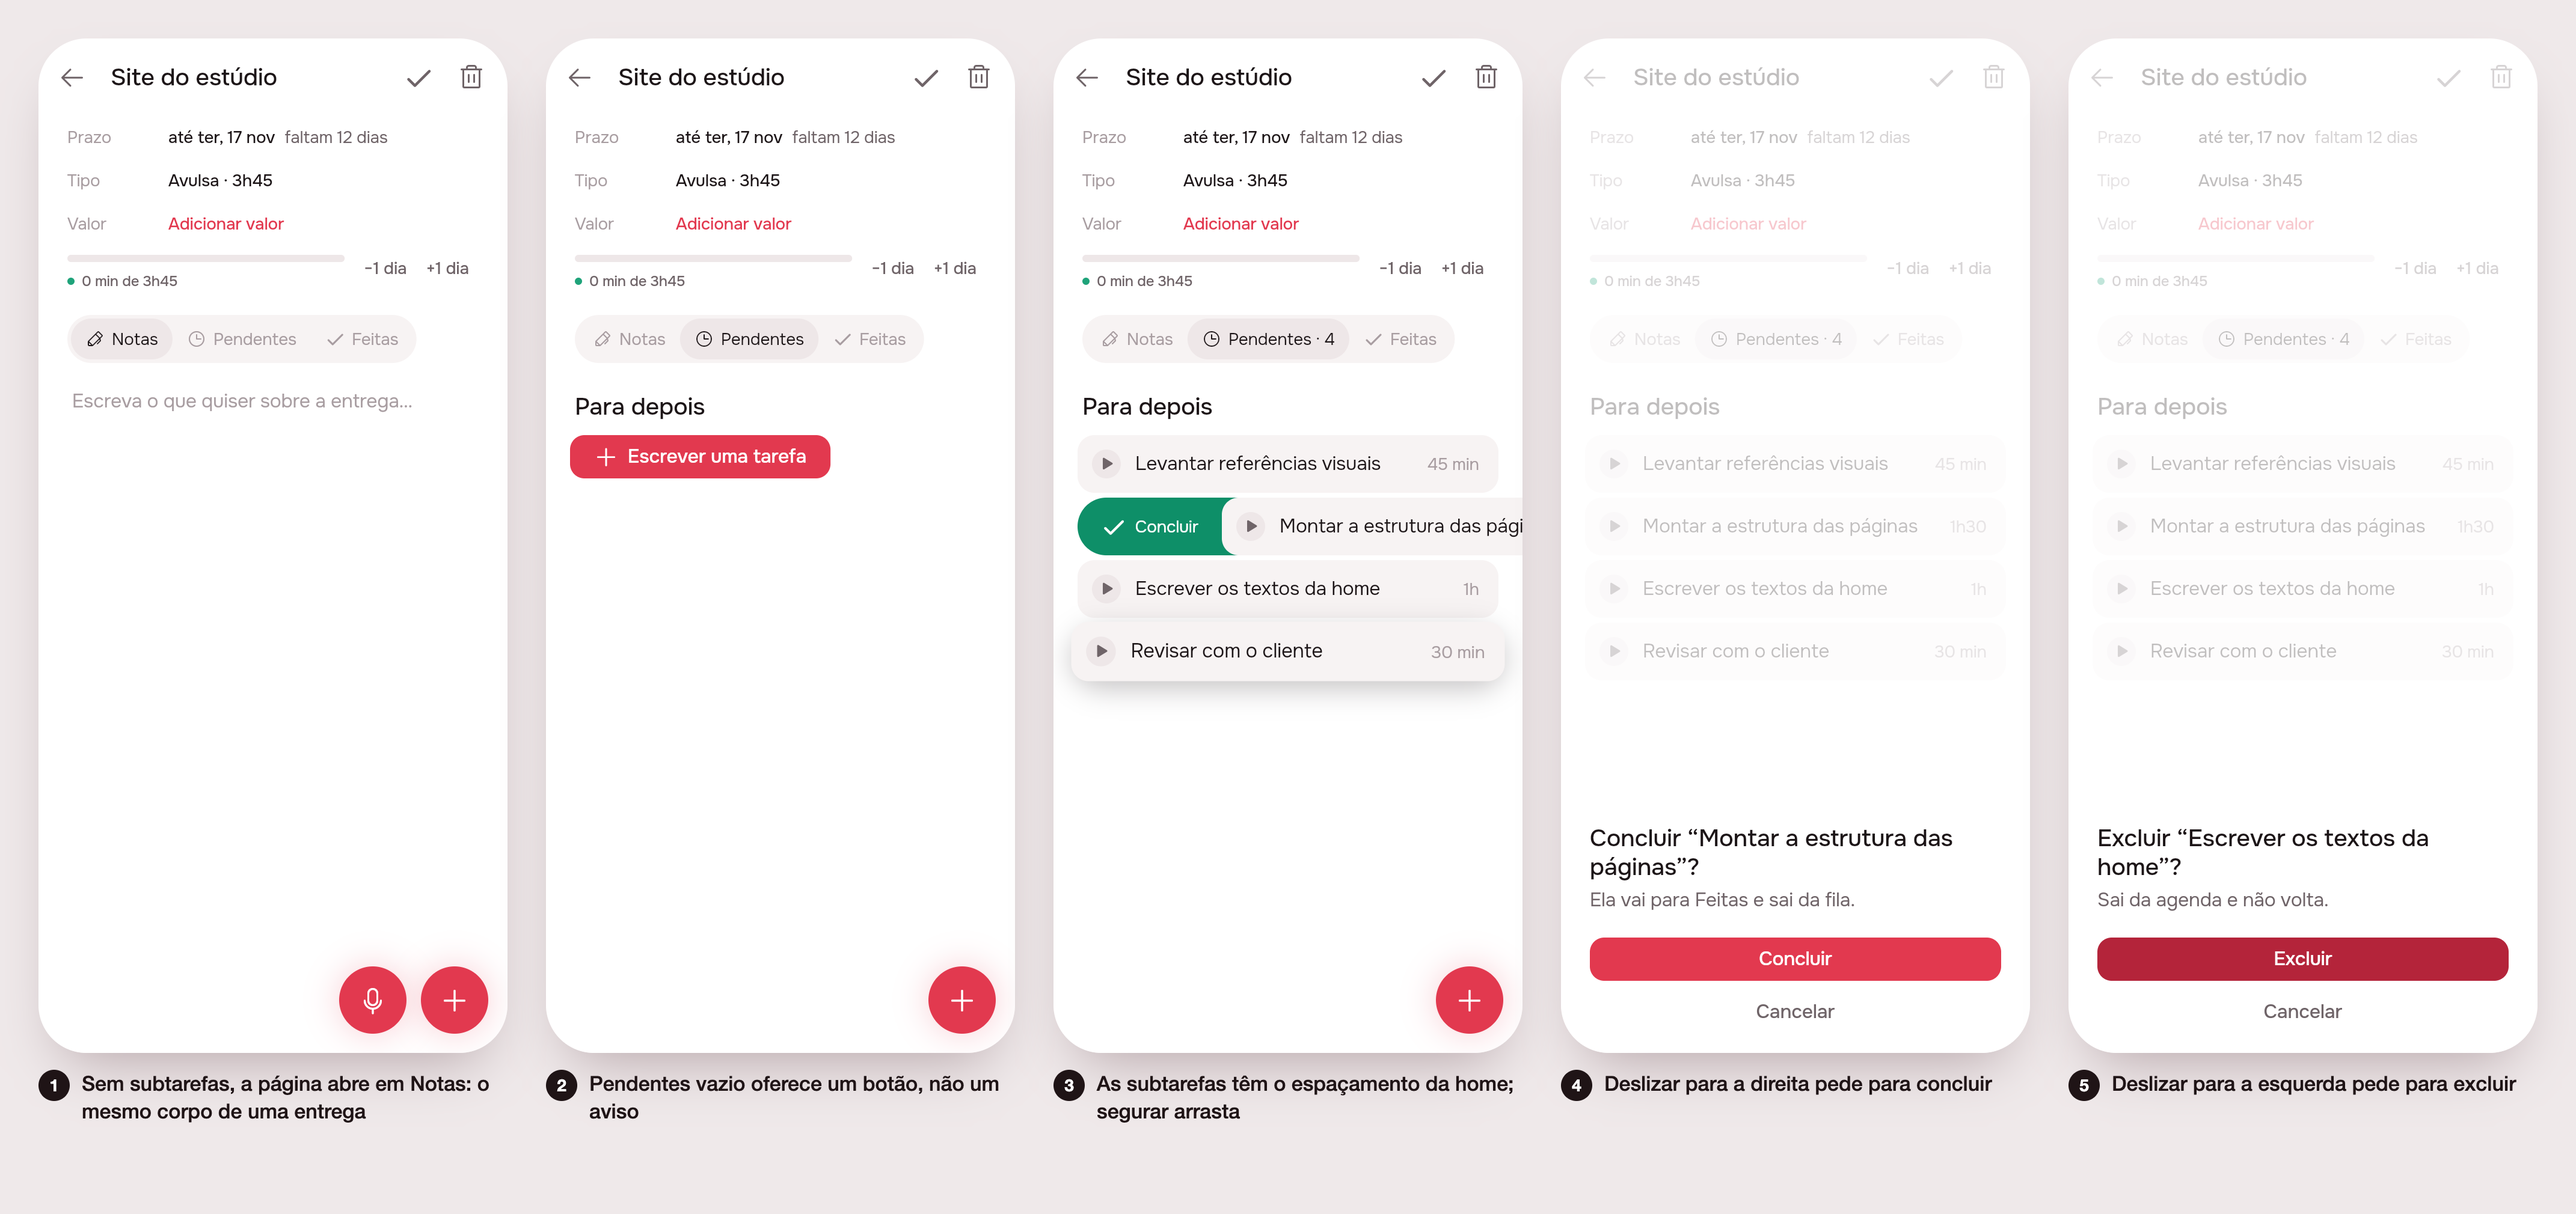
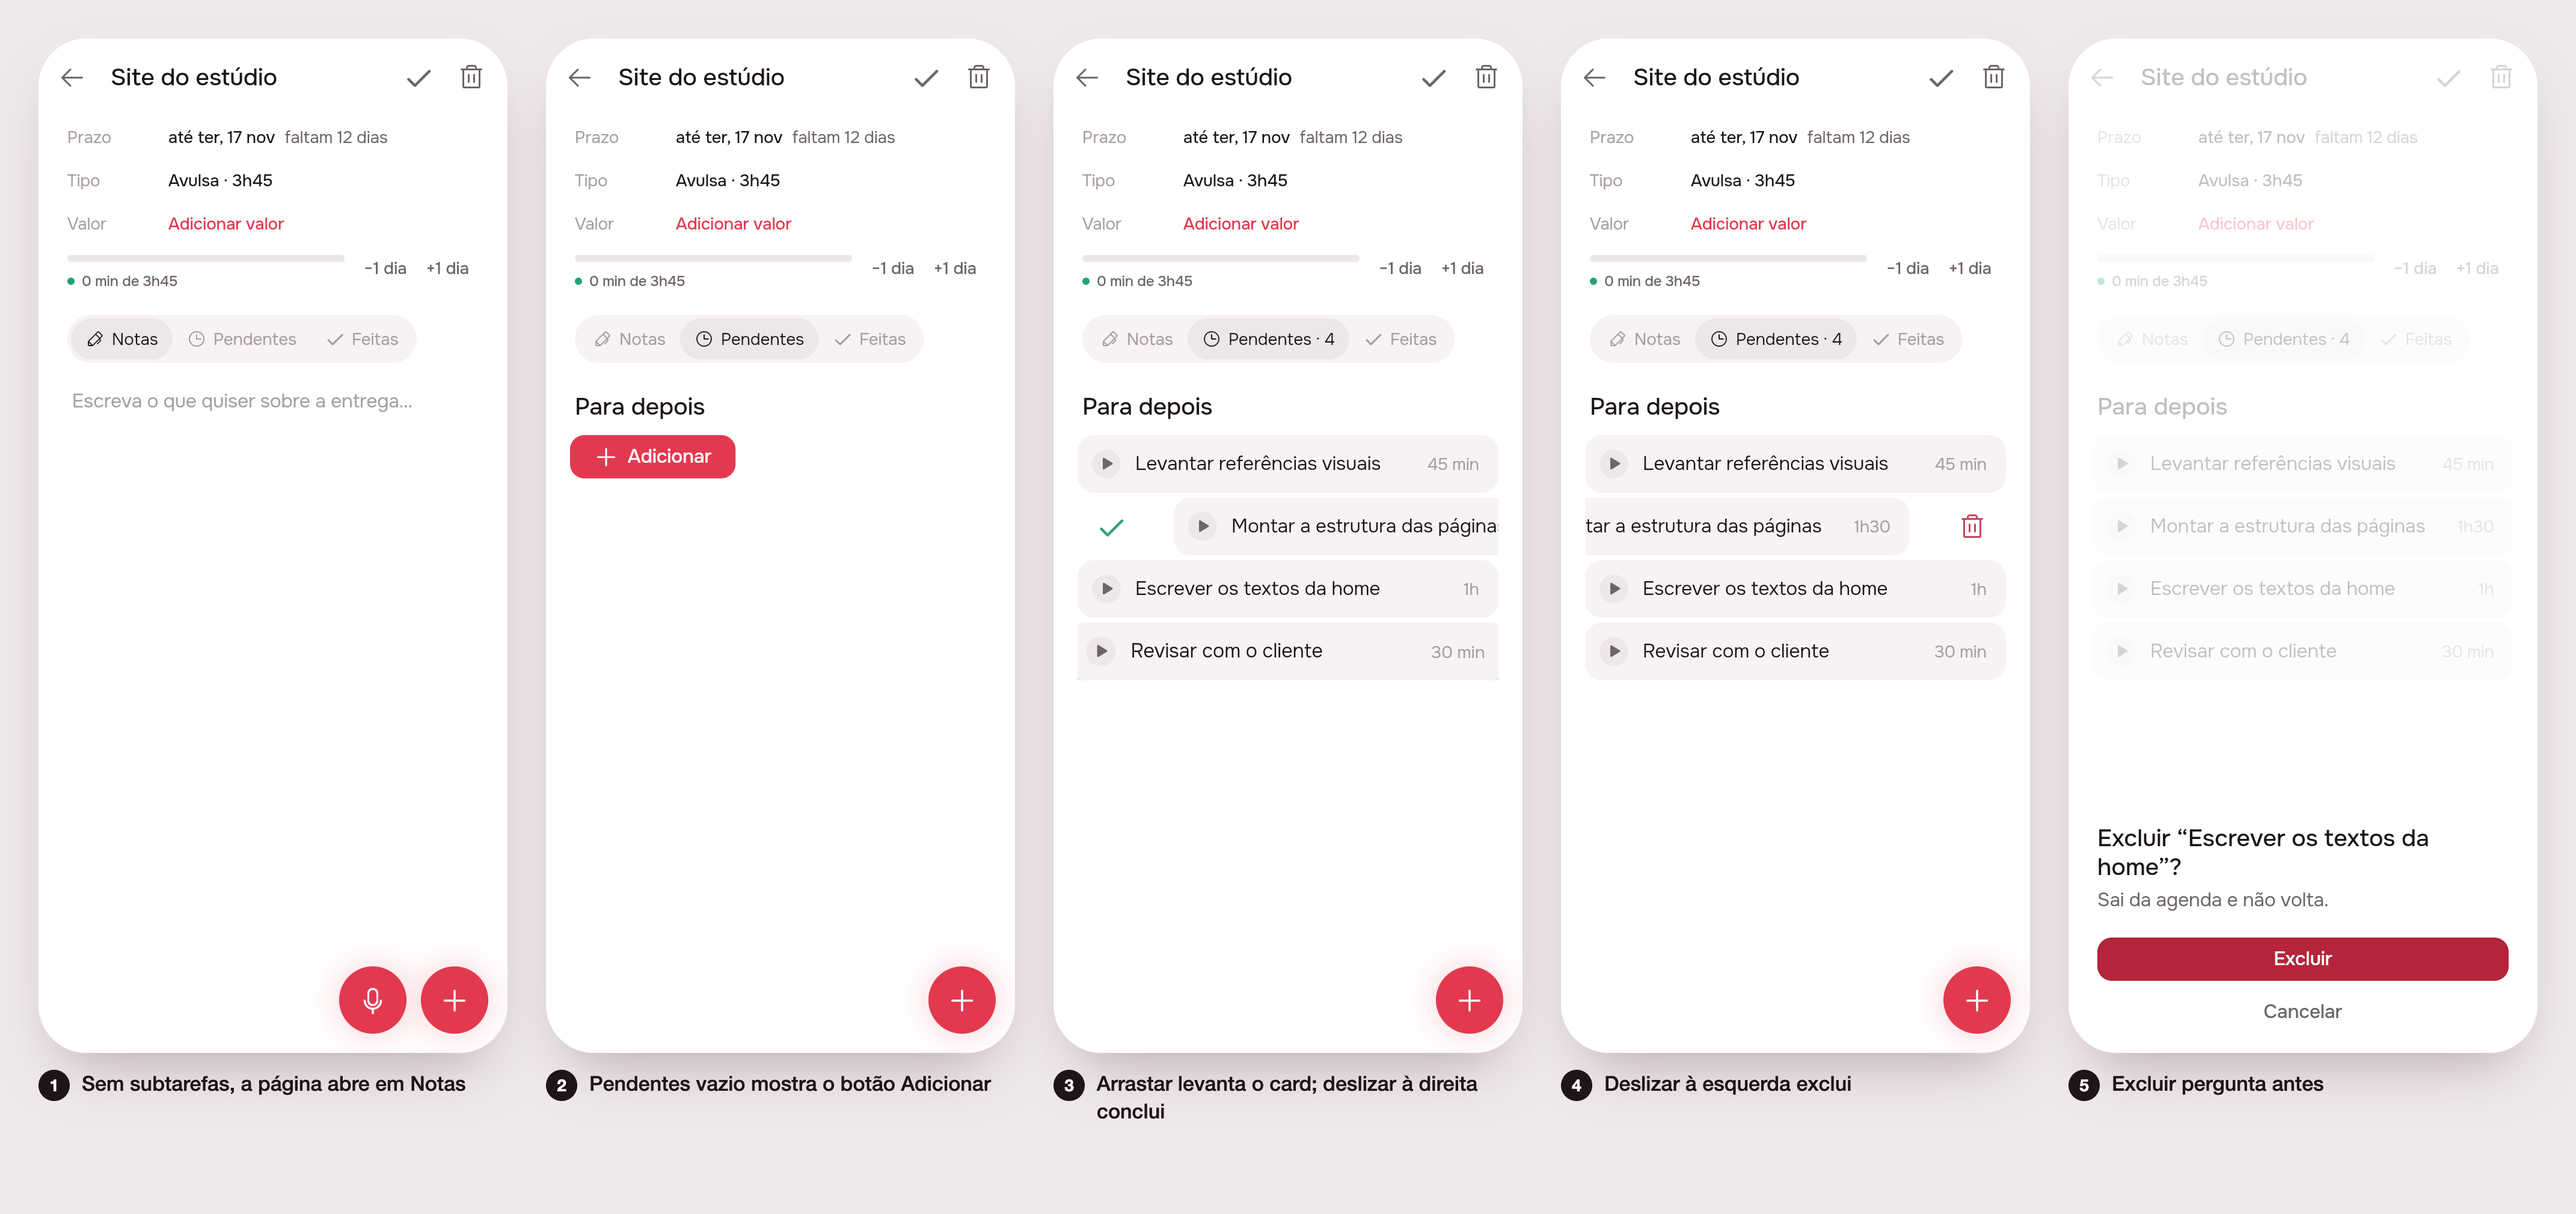
mockup(#94): revise · Visão da tarefa: notas, subtarefas e diálogos

diff --git a/app/packages/artifacts/lib/src/view/subtask_row.dart b/app/packages/artifacts/lib/src/view/subtask_row.dart
@@ -1,12 +1,10 @@
 import 'package:app_ui/app_ui.dart';
-import 'package:l10n/l10n.dart';
 
 /// {@template subtask_row}
-/// A subtask's card with its swipes: right ticks it off, left deletes it.
+/// A subtask's card with the calendar's swipes: right ticks it off, left deletes it (asking first).
 ///
-/// Both only reveal their button past the threshold and ask before they
-/// do anything ([onDone], [onDelete] return whether the answer was yes);
-/// the card always springs back, because the list redraws from the server.
+/// Done needs no answer, as on the calendar; delete asks ([onDelete]).
+/// The card always springs back, because the list redraws from the server.
 /// [offset] and [lifted] seed a swipe or a drag already under way, for the
 /// previews.
 /// {@endtemplate}
@@ -44,7 +42,6 @@ class _SubtaskRowState extends State<SubtaskRow> {
 
   @override
   Widget build(BuildContext context) {
-    final l10n = context.l10n;
     final done = _dx > 0;
     final shown = _dx.abs().clamp(0, 160).toDouble();
 
@@ -52,62 +49,55 @@ class _SubtaskRowState extends State<SubtaskRow> {
       behavior: HitTestBehavior.translucent,
       onHorizontalDragUpdate: (d) => setState(() => _dx += d.delta.dx),
       onHorizontalDragEnd: (_) => _release(),
-      child: Stack(
-        children: [
-          if (_dx != 0)
-            Positioned.fill(
-              child: Container(
-                alignment: done ? Alignment.centerLeft : Alignment.centerRight,
-                padding: const EdgeInsets.symmetric(horizontal: AppSpacing.s5),
-                decoration: BoxDecoration(
-                  color: done ? AppColors.success : AppColors.dangerInk,
-                  borderRadius: BorderRadius.circular(AppSpacing.cardRadius),
-                ),
-                child: Opacity(
-                  opacity: (shown / _threshold).clamp(0, 1).toDouble(),
-                  child: Row(
-                    mainAxisSize: MainAxisSize.min,
-                    children: [
-                      AppIcon(
+      child: ClipRect(
+        child: Stack(
+          children: [
+            // As on the calendar: only the icon, in the card's own corner, no
+            // fill and no label.
+            if (_dx != 0)
+              Positioned.fill(
+                child: Align(
+                  alignment: done
+                      ? Alignment.centerLeft
+                      : Alignment.centerRight,
+                  child: Padding(
+                    padding: const EdgeInsets.symmetric(
+                      horizontal: AppSpacing.s4,
+                    ),
+                    child: Opacity(
+                      opacity: (shown / _threshold).clamp(0, 1).toDouble(),
+                      child: AppIcon(
                         iconData: done ? AppIcons.check : AppIcons.trash,
-                        color: AppColors.bg,
-                        size: 20,
+                        color: done ? AppColors.success : AppColors.dangerInk,
                       ),
-                      const SizedBox(width: AppSpacing.s2),
-                      Text(
-                        done ? l10n.subtaskSwipeDone : l10n.subtaskSwipeDelete,
-                        style: AppTypography.label.copyWith(
-                          color: AppColors.bg,
-                        ),
-                      ),
-                    ],
+                    ),
                   ),
                 ),
               ),
-            ),
-          Transform.translate(
-            offset: Offset(_dx, 0),
-            child: AnimatedScale(
-              scale: widget.lifted ? 1.03 : 1,
-              duration: const Duration(milliseconds: 120),
-              child: DecoratedBox(
-                decoration: BoxDecoration(
-                  borderRadius: BorderRadius.circular(AppSpacing.cardRadius),
-                  boxShadow: widget.lifted
-                      ? [
-                          const BoxShadow(
-                            color: AppColors.shadow,
-                            blurRadius: 18,
-                            offset: Offset(0, 6),
-                          ),
-                        ]
-                      : null,
+            Transform.translate(
+              offset: Offset(_dx, 0),
+              child: AnimatedScale(
+                scale: widget.lifted ? 1.03 : 1,
+                duration: const Duration(milliseconds: 120),
+                child: DecoratedBox(
+                  decoration: BoxDecoration(
+                    borderRadius: BorderRadius.circular(AppSpacing.cardRadius),
+                    boxShadow: widget.lifted
+                        ? [
+                            const BoxShadow(
+                              color: AppColors.shadow,
+                              blurRadius: 18,
+                              offset: Offset(0, 6),
+                            ),
+                          ]
+                        : null,
+                  ),
+                  child: widget.child,
                 ),
-                child: widget.child,
               ),
             ),
-          ),
-        ],
+          ],
+        ),
       ),
     );
   }

diff --git a/app/lib/task_view_preview.dart b/app/lib/task_view_preview.dart
@@ -11,7 +11,7 @@ import 'package:lunna/demo/data/demo_repositories.dart';
 import 'package:timeline/timeline.dart';
 
 /// Preview of the task page (#94): `?s=1` Notas empty, `2` Pendentes empty,
-/// `3` subtasks with a swipe and a drag, `4` the done dialog, `5` the
+/// `3` subtasks, a swipe right and a drag, `4` a swipe left, `5` the
 /// delete dialog.
 void main() => runApp(const _App());
 
@@ -73,13 +73,9 @@ class _SceneState extends State<_Scene> {
   @override
   void initState() {
     super.initState();
-    if (_scene >= 4) {
+    if (_scene == 5) {
       WidgetsBinding.instance.addPostFrameCallback((_) {
-        if (_scene == 4) {
-          confirmDone(context, 'Montar a estrutura das páginas');
-        } else {
-          confirmDelete(context, 'Escrever os textos da home');
-        }
+        confirmDelete(context, 'Escrever os textos da home');
       });
     }
   }
@@ -118,7 +114,11 @@ class _SceneState extends State<_Scene> {
         child: ArtifactPage(
           id: 'p',
           initialTab: _scene == 1 ? 0 : 1,
-          previewSwipe: _scene == 3 ? ('b', 120) : null,
+          previewSwipe: _scene == 3
+              ? ('b', 80)
+              : _scene == 4
+              ? ('b', -80)
+              : null,
           previewLifted: _scene == 3 ? 'd' : null,
         ),
       ),

diff --git a/app/packages/artifacts/lib/src/view/artifact_page.dart b/app/packages/artifacts/lib/src/view/artifact_page.dart
@@ -674,7 +674,7 @@ class _Tasks extends StatelessWidget {
             alignment: Alignment.centerLeft,
             child: AppButton.icon(
               icon: const AppIcon(iconData: AppIcons.plus, size: 20),
-              text: l10n.artifactPendingEmptyAction,
+              text: l10n.composeAdd,
               onPressed: () => ComposeLauncher.maybeOf(
                 context,
               )?.open(context, about: AgentSubject.artifact(artifact.id)),
@@ -689,10 +689,7 @@ class _Tasks extends StatelessWidget {
               offset: swipeId == task.id ? swipe : 0,
               lifted: liftedId == task.id,
               onDone: () async {
-                final bloc = context.read<TimelineBloc>();
-                if (await confirmDone(context, task.title)) {
-                  bloc.add(EventFinished(task.id));
-                }
+                context.read<TimelineBloc>().add(EventFinished(task.id));
               },
               onDelete: () async {
                 final bloc = context.read<TimelineBloc>();

diff --git a/app/packages/l10n/lib/src/gen/app_localizations.dart b/app/packages/l10n/lib/src/gen/app_localizations.dart
@@ -335,24 +335,6 @@ abstract class AppLocalizations {
   /// **'Concluir'**
   String get confirmDoneAction;
 
-  /// No description provided for @artifactPendingEmptyAction.
-  ///
-  /// In pt, this message translates to:
-  /// **'Escrever uma tarefa'**
-  String get artifactPendingEmptyAction;
-
-  /// No description provided for @subtaskSwipeDone.
-  ///
-  /// In pt, this message translates to:
-  /// **'Concluir'**
-  String get subtaskSwipeDone;
-
-  /// No description provided for @subtaskSwipeDelete.
-  ///
-  /// In pt, this message translates to:
-  /// **'Excluir'**
-  String get subtaskSwipeDelete;
-
   /// No description provided for @confirmShortenTitle.
   ///
   /// In pt, this message translates to:

diff --git a/app/packages/l10n/lib/src/gen/app_localizations_pt.dart b/app/packages/l10n/lib/src/gen/app_localizations_pt.dart
@@ -160,15 +160,6 @@ class AppLocalizationsPt extends AppLocalizations {
   String get confirmDoneAction => 'Concluir';
 
   @override
-  String get artifactPendingEmptyAction => 'Escrever uma tarefa';
-
-  @override
-  String get subtaskSwipeDone => 'Concluir';
-
-  @override
-  String get subtaskSwipeDelete => 'Excluir';
-
-  @override
   String get confirmShortenTitle => 'Não cabe inteiro aqui';
 
   @override

diff --git a/product/delivery/2026-11-05-task-view/README.md b/product/delivery/2026-11-05-task-view/README.md
@@ -17,14 +17,20 @@ From the issue, verbatim:
 
 1. With no subtasks the page opens on **Notas**: the same body a delivery's
    Notas tab has (just the hint, no title or text field of its own).
-2. An empty **Pendentes** shows a button, *Escrever uma tarefa*, that opens
-   the composer about this task; the "Nada esperando…" sentence is gone.
-3. Subtasks are cards spaced like the home's (`kQueueGap`, 4 px). A long
-   press lifts one to drag it; the second one is mid-swipe to the right.
-4. Swipe right (past 96 px) asks *Concluir “…”?* before ticking it off.
-5. Swipe left asks *Excluir “…”?* (the existing `confirmDelete`).
+2. An empty **Pendentes** shows the home's own button, **Adicionar**, that
+   opens the composer about this task; the "Nada esperando…" sentence is gone.
+3. Subtasks are the home's `TaskCard`s with its spacing (`kQueueGap`, 4 px).
+   A long press lifts one to drag it; swipe right ticks it off, as on the
+   calendar: a green check in the corner, no label, **no dialog**.
+4. Swipe left shows the red bin, as on the calendar.
+5. Letting go asks *Excluir “…”?* (the existing `confirmDelete`).
 
-Decided unattended: "the task page" is `ArtifactPage` (a task with
+Reply on the issue (verbatim):
+
+> keep design consistent. You should only use the same components as the home one. the "escrever uma tarefa" should be just adicionar and the swipe to left and to right must be the same as the home. But I liked it the swipe.
+
+Decided unattended: the home's list has no swipe; the calendar (`timeline_list.dart` ~1196) does, so "same as the home" is read as that: right = done at once with a green check, left = delete after `confirmDelete`. This drops the done dialog the first brief asked for.
+ "the task page" is `ArtifactPage` (a task with
 subtasks); the "Nova tarefa" row/`artifactAddTask` is read as the
 empty-state copy to drop, and the + dock stays as the one way to add.
 
@@ -39,9 +45,10 @@ Written in this session (kept for the build):
 - `app/packages/artifacts/lib/src/view/artifact_page.dart`: `_Tasks` uses
   `SubtaskRow`, gap `s1`, empty button (`ComposeLauncher`); `previewSwipe`
   and `previewLifted` on `ArtifactPage`.
-- `app/packages/timeline/lib/src/widgets/confirm_sheet.dart`: `confirmDone`.
-- `app_pt.arb`: `confirmDone*`, `artifactPendingEmptyAction`,
-  `subtaskSwipe*` (gen run).
+- `app/packages/timeline/lib/src/widgets/confirm_sheet.dart`: `confirmDone`
+  (now unused: remove it and `confirmDone*` from the arb).
+- Empty button reads `composeAdd` ("Adicionar"); `SubtaskRow` shows only the
+  icon, as the calendar does.
 
 The build must still:
 
@@ -61,5 +68,5 @@ The build must still:
 - Tests: swipe past the threshold asks, no answer leaves the task; the
   empty button opens the composer.
 
-Open questions: should the swipe also exist on the home's cards? Should a
+Open questions: should the swipe also exist on the home's cards? Should a right swipe ask, as the first brief wanted? Should a
 swipe-done on a running subtask be refused?
